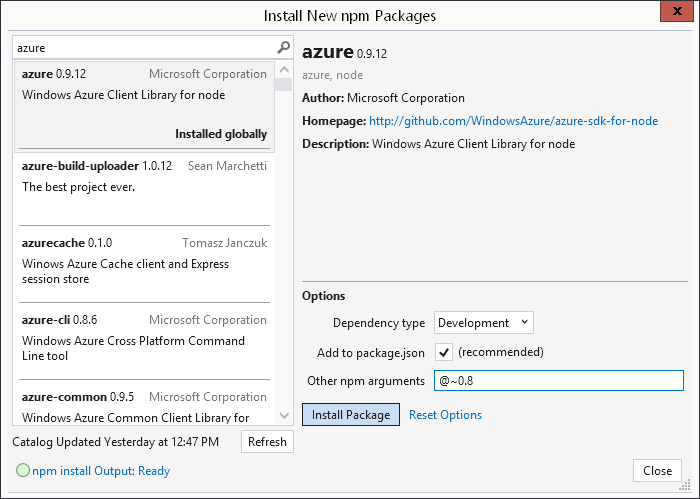
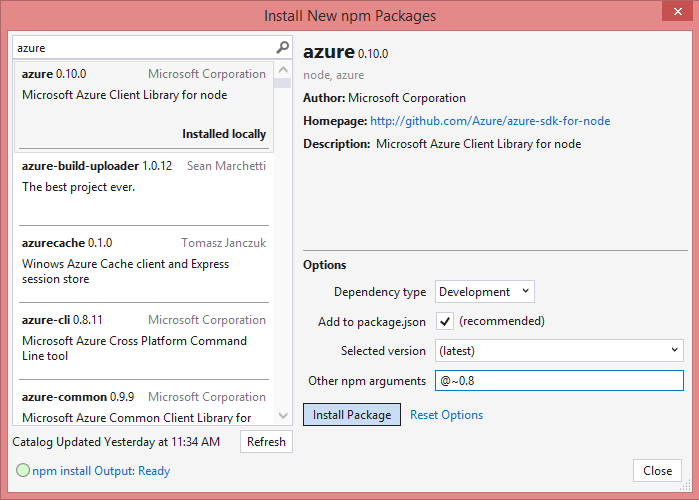
updated npm docs, pushed to codeplex

diff --git a/Nodejs/Docs/User/Npm.md b/Nodejs/Docs/User/Npm.md
@@ -20,7 +20,6 @@ The easiest way to open a command prompt in the correct location is to right-cli
 ![Open Command Prompt Here](Images/npm-open-command-prompt-here.png)
 
 ### .npm in the Node.js Interactive Window
- *New in NTVS 1.0 Beta 2*
 
 If you're addicted to the npm command line interface, you'll feel right at home with the ```.npm``` command in the Node.js Interactive Window <span class="menu">Tools</span> → <span class="menu">Node.js Tools</span> → <span class="menu">Node.js Interactive Window</span>. It does exactly what you would expect - run npm commands from the Interactive Window. For instance...
 
@@ -40,22 +39,29 @@ By default, npm will execute in your project's home directory. If you have multi
 *Known Issue:* the ```.npm``` command is currently unavailable for folders that do not have a package.json file. To initiate commands like npm init (which creates a package.json file,) simply right click your project's Solution Explorer node, and open up the command prompt. 
 
 ### Browsing/Installing new npm packages in the GUI
-*Refreshed in NTVS 1.0 Beta 2*
+*Refreshed in NTVS 1.0 Beta 3*
 
 If you don't know the exact command, want to browse through available packages in the npm registry, or simply prefer a <s>gooey</s> graphical user interface, right click on the Solution Explorer npm node, and select <span class="menu">Install New npm Packages...</span>
 
 ![Install Packages Context Menu](Images/npm-context-menu-install-packages.png)
 
-The first time you open the dialog, it'll start downloading the entire npm catalog. It's a 43MB+ download, so if you're impatient, you can close the dialog and wait for the download to complete (current status prints to Output Window).
+The first time you open the dialog, it'll start downloading the entire npm catalog. It's a 50MB+ download, so if you're impatient, you can close the dialog and wait for the download to complete while you perform other tasks (current status prints to the [npm log in the Output Window](#npm-log-in-output-window)).
 
 ![Install Packages GUI](Images/npm-loading-package-list.png)
 
+The package cache is now stored in a database, so so future refreshes are iterative. If you've tried to refresh a couple times with no luck, we suggest clearing your cache first by navigating to <span class="menu">Tools</span> → <span class="menu">Options</span>Options> → <span class="menu">Node.js Tools</span> → <span class="menu">Npm</span>.
+
+![npm Options Dialog](Images/npm-options-dialog.png)
+
+Otherwise, take a look at the [npm log in the Output Window](#npm-log-in-output-window) for more detail about what went wrong.
 
 Once the catalog finishes loading, search for a package, specify options, and install. For instance, if you'd like to install azure, approximately version 0.8, and list it in your devDependencies in package.json:
 
 - **Dependency type:** Development
 - **Add to package.json:** Yes (if you uncheck this, it will be installed as a standard dependency instead because there is no concept of devDependencies without package.json. Similarly, this flag will be ignored if you select the ```global``` dependency type)
-- **Other npm arguments:** ```@~0.8```
+- **Version:** latest (alternatively select a version if the version you want is in the list - only versions as recommended by dist-tags are available.)
+- **Other npm arguments:** ```@~0.8``` (we'll honor your version-related arguments here, so long as Version is specified to be ```latest```)
+
 
 The corresponding npm command is:
 
@@ -72,7 +78,7 @@ If the status indicator in the lower left hand corner indicates an error and/or 
 ![npm install Details](Images/npm-install-executing-details.png)
 
 
-Note that npm will continue running in the background when you close the dialog (npm output will be printed to the Output Window.)
+Note that npm will continue running in the background when you close the dialog (npm output will be printed to the [npm log in the Output Window](#npm-log-in-output-window).)
 
 
 ### Managing Installed Packages in Solution Explorer
@@ -130,6 +136,8 @@ If you've already installed some packages you'll have seen that we capture and d
 
 	![npm Log](Images/npm-log.png)
 
+
+This is handy for debugging your own npm-related issues (and helping us debug ours.)
 
 ### Happy package-managing!
 Comments, compliments, complaints? We'd love to hear your feedback - please file an [issue](https://nodejstools.codeplex.com/workitem/list/basic), comment below, or post on the [forums](https://nodejstools.codeplex.com/discussions).
